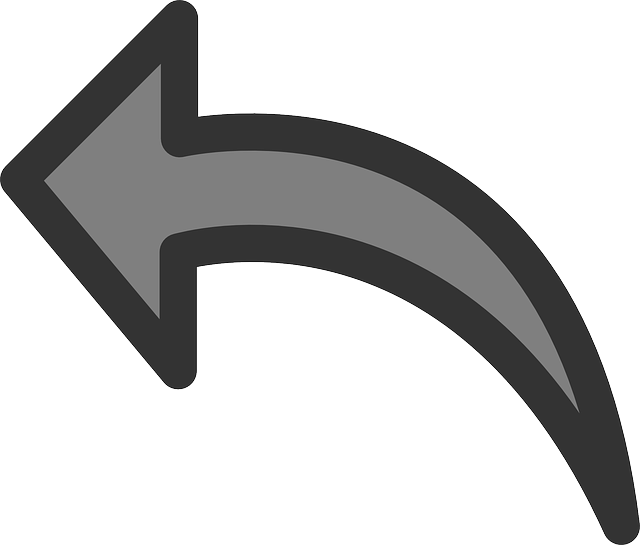
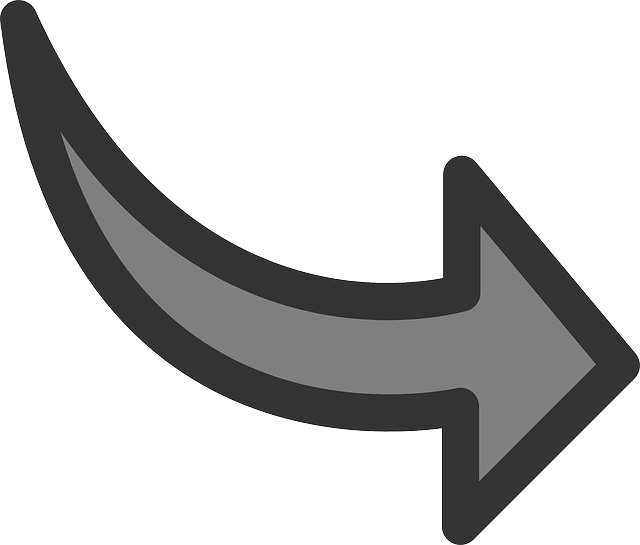
Fix image 2
Fix image 2

diff --git a/docs/index.md b/docs/index.md
@@ -260,7 +260,7 @@ HtmlDocument document = web.Load("url");</pre>
 							<!-- example 2 !-->
 							<div class="col-lg-3 push-lg-9">
 								<div class="example-header">USE <br class="hidden-md-down" />SELECTORS, <br class="hidden-md-down" />TRAVERSORS, <br class="hidden-md-down" />MANIPULATORS, <br class="hidden-md-down" />& MORE</div>
-								<div class="arrow-rtl hidden-md-down"><img src="images/arrow-1.png" width="100px;" /></div>
+								<div class="arrow-rtl hidden-md-down"><img src="images/arrow-1-inverse.png" width="100px;" /></div>
 							</div>
 							<div class="col-lg-9 pull-lg-3">
 								<div class="example-box">
@@ -347,11 +347,9 @@ header .arrow-ltr {
 	text-align: right;
 }
 header .arrow-ltr img {
-	image-orientation: 180deg; 
 	width: 60px;
 }
 header .arrow-rtl img {
-	image-orientation: 180deg flip; 
 	width: 60px;
 }
 .hero-examples .row {
